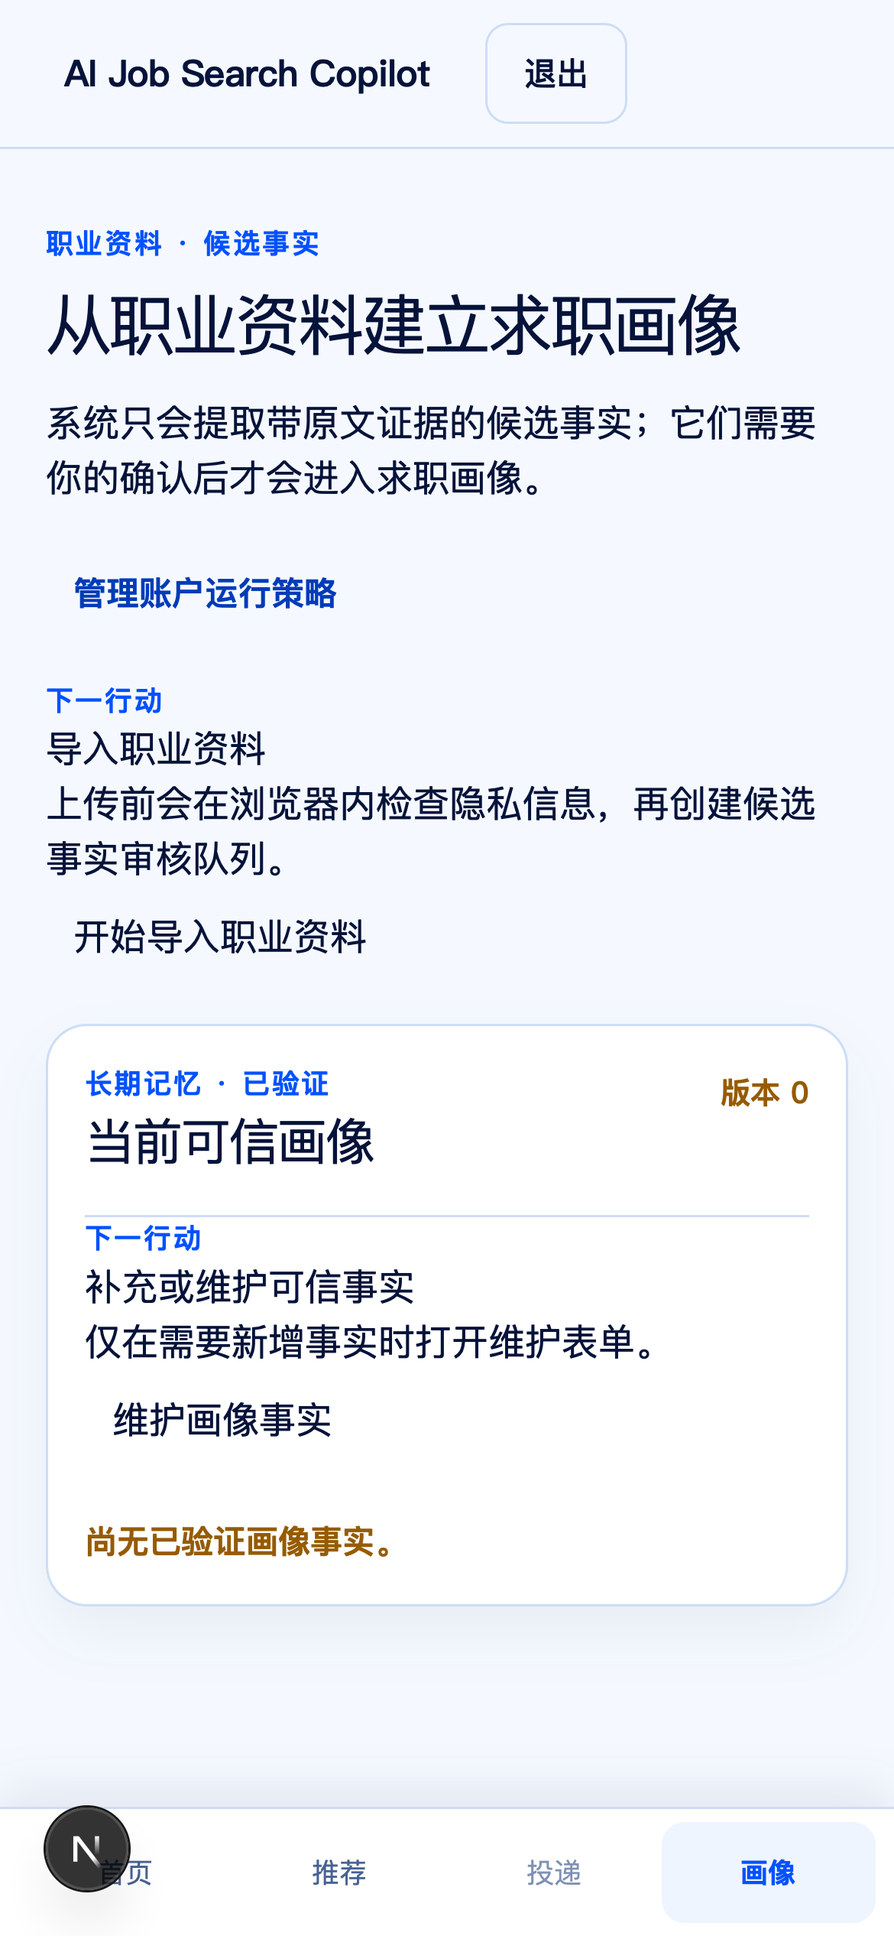
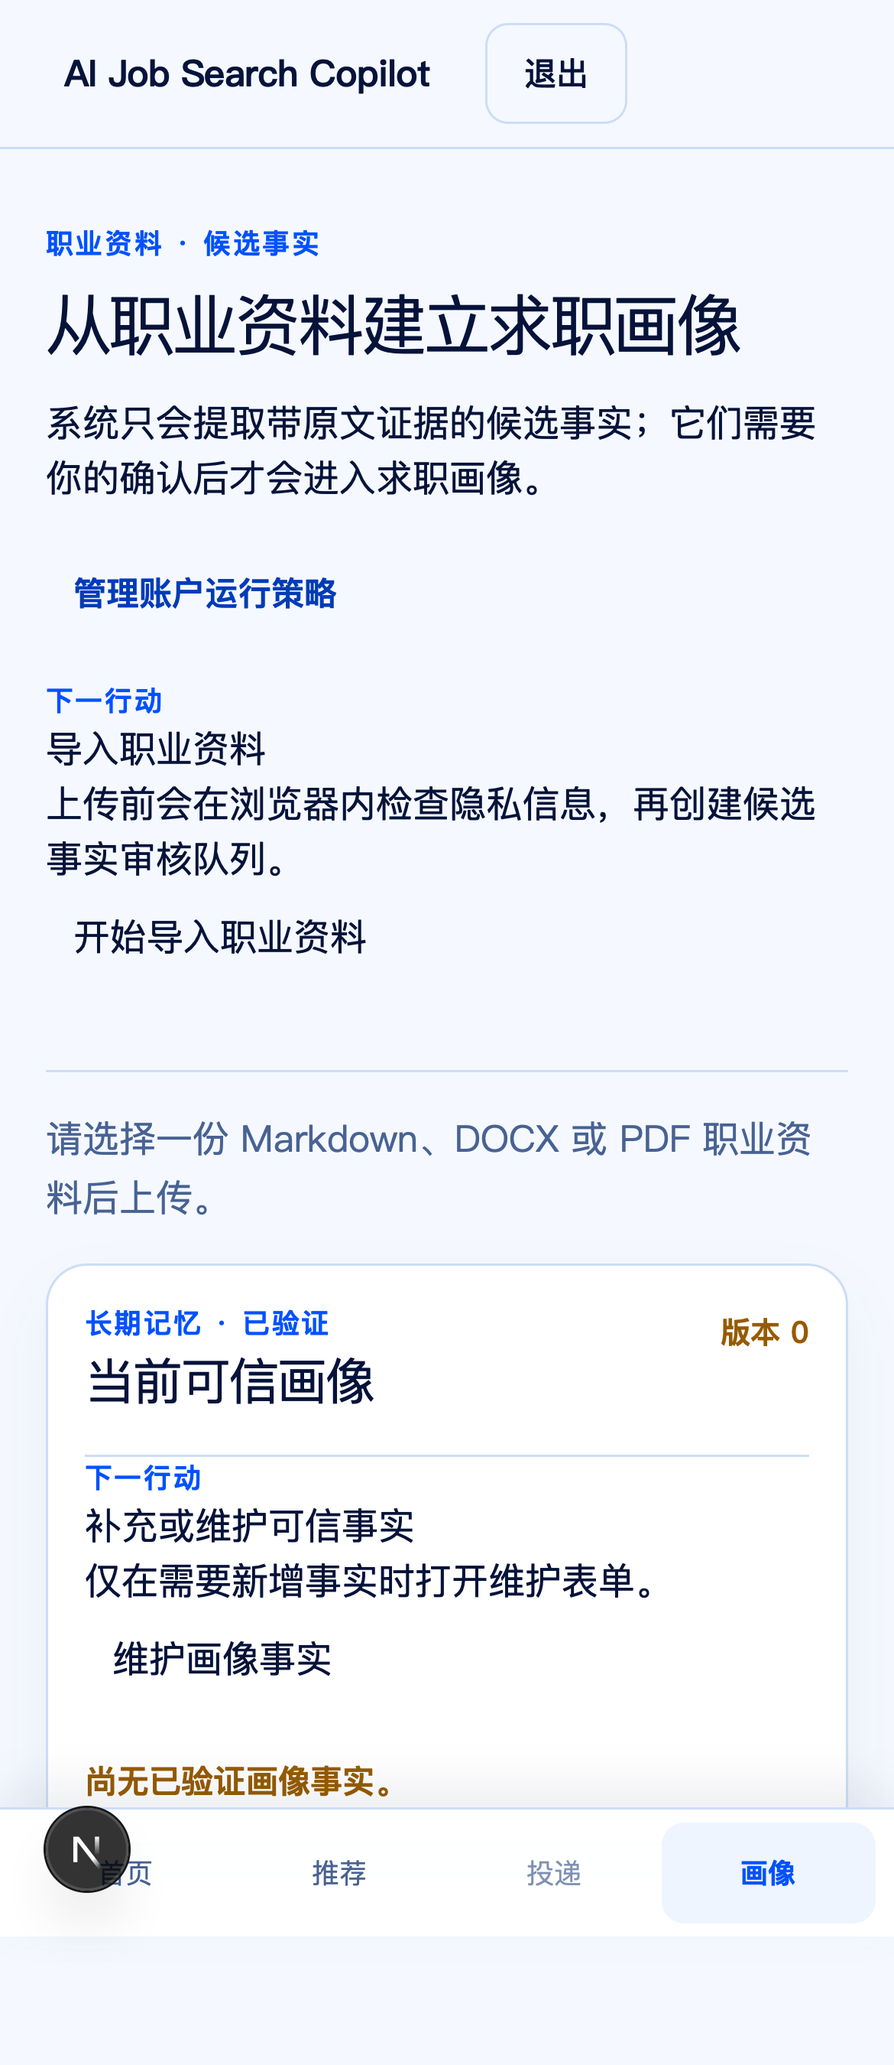
fix(web): preserve mobile policy and import states

diff --git a/apps/web/app/(workbench)/recommendations/page.tsx b/apps/web/app/(workbench)/recommendations/page.tsx
@@ -48,7 +48,7 @@ export default async function RecommendationsPage({ searchParams = Promise.resol
         {resultError ? <p role="alert">{resultError}</p> : result ? <RecommendationResultSummary result={result} /> : null}
         {sideReadError ? <p role="alert">{sideReadError}</p> : null}
         {runStatus ? <><h2>{runStatus}</h2><Link className="workbench-touch-target" href={`/home?runId=${runId}`}>查看本次推荐</Link></> : null}
-        {!list && !result && !resultError && !runStatus ? <><h2>暂无可处理的推荐</h2><p>完成岗位发现和资格筛选后，这里会显示高度匹配、值得尝试或谨慎考虑的岗位。</p><section aria-label="推荐下一行动" className="job-import-panel job-import-next-action"><h2>下一步：先建立求职目标</h2><p>建立一个主求职目标，再从首页启动岗位发现；完成资格筛选后，推荐会在这里按证据呈现。</p><Link className="workbench-touch-target" href="/profile/targets">建立求职目标</Link></section></> : list ? <>
+        {!list && !result && !resultError && !runStatus ? <><h2>暂无可处理的推荐</h2><p>完成岗位发现和资格筛选后，这里会显示高度匹配、值得尝试或谨慎考虑的岗位。</p><section aria-label="推荐下一行动" className="job-import-panel job-import-next-action">{targetId ? <><h2>下一步：从首页启动或查看今日推荐</h2><p>你已经建立主求职目标。请从首页查看推荐准备、阻塞项或启动今天的推荐；结果发布后会在这里按证据呈现。</p><Link className="workbench-touch-target" href="/home#recommendation-run">查看推荐准备</Link></> : <><h2>下一步：先建立求职目标</h2><p>建立一个主求职目标，再从首页启动岗位发现；完成资格筛选后，推荐会在这里按证据呈现。</p><Link className="workbench-touch-target" href="/profile/targets">建立求职目标</Link></>}</section></> : list ? <>
           <p aria-label="推荐清单版本">清单版本 {list.sequence} · {list.localDate}</p>
           <ol aria-label="推荐岗位" className="recommendation-list" id="recommendation-list">
             {list.items.map((item) => {

diff --git a/apps/web/components/workbench/profile-import-view.test.tsx b/apps/web/components/workbench/profile-import-view.test.tsx
@@ -172,6 +172,22 @@ it("默认先展示导入下一行动，明确操作后才展开上传区", asyn
   expect(uploadSection).not.toHaveClass("profile-maintenance-collapsed");
 });
 
+it("收起导入区后仍把当前和最近导入任务状态保留在可见 live 区域", async () => {
+  vi.spyOn(globalThis, "fetch").mockResolvedValue(Response.json(completedDetail));
+  const user = userEvent.setup();
+  render(<ProfileImportView initialImports={[completedImport]} />);
+
+  expect(await screen.findByRole("status")).toHaveTextContent("解析完成");
+  expect(screen.getByRole("status")).toBeVisible();
+  expect(screen.getByRole("heading", { name: "最近导入" })).toBeVisible();
+  await user.click(screen.getByRole("button", { name: "开始导入职业资料" }));
+  await user.click(screen.getByRole("button", { name: "收起导入区" }));
+  expect(screen.getByRole("status")).toBeVisible();
+  expect(screen.getByRole("status")).toHaveTextContent("解析完成");
+  expect(screen.getByRole("button", { name: /completed\.md/ })).toBeVisible();
+  expect(screen.queryByRole("button", { name: "取消导入" })).not.toBeInTheDocument();
+});
+
 it("detects private information before upload and submits only the sanitized processing copy", async () => {
   let submitted: FormData | undefined;
   mocks.createCareerImportAction.mockImplementation(async (_previous, formData: FormData) => {

diff --git a/apps/web/app/(workbench)/recommendations/page.test.tsx b/apps/web/app/(workbench)/recommendations/page.test.tsx
@@ -54,6 +54,17 @@ describe("RecommendationsPage", () => {
     expect(screen.queryByText(/%/)).not.toBeInTheDocument();
   });
 
+  it("有活动主目标但尚无推荐时引导查看或启动推荐，而非重新建立目标", async () => {
+    mocks.getJobTargets.mockResolvedValue({ targets: [{ targetId: targetA, state: "active", priority: "primary" }] });
+
+    render(await RecommendationsPage());
+
+    const nextAction = screen.getByRole("region", { name: "推荐下一行动" });
+    expect(nextAction).toHaveTextContent("从首页启动或查看今日推荐");
+    expect(within(nextAction).getByRole("link", { name: "查看推荐准备" })).toHaveAttribute("href", "/home#recommendation-run");
+    expect(within(nextAction).queryByRole("link", { name: "建立求职目标" })).not.toBeInTheDocument();
+  });
+
   it("将每个真实岗位作为机会对象，并把岗位与画像证据放入可展开对照", async () => {
     mocks.getLatestPublishedRecommendationRun.mockResolvedValue(published(targetB, listA));
     mocks.getRecommendationList.mockResolvedValue(list(listA, targetB, "结构化岗位"));

diff --git a/apps/web/app/globals.css b/apps/web/app/globals.css
@@ -685,29 +685,8 @@ body {
 
 @media (max-width: 640px) {
   .run-policy-table-wrap table {
-    min-width: 100% !important;
-    table-layout: fixed;
-  }
-
-  .run-policy-table-wrap th:nth-child(2),
-  .run-policy-table-wrap td:nth-child(2),
-  .run-policy-table-wrap th:nth-child(3),
-  .run-policy-table-wrap td:nth-child(3),
-  .run-policy-table-wrap th:nth-child(4),
-  .run-policy-table-wrap td:nth-child(4) {
-    display: none;
-  }
-
-  .run-policy-table-wrap th:nth-child(5),
-  .run-policy-table-wrap td:nth-child(5) {
-    display: table-cell !important;
-    width: 4.5rem;
-  }
-
-  .run-policy-table-wrap th:first-child,
-  .run-policy-table-wrap td:first-child {
-    width: auto;
-    overflow-wrap: anywhere;
+    /* Keep the five-layer comparison intact; the wrapper supplies local horizontal scroll. */
+    min-width: 42rem;
   }
 
   .marketing-header-inner {

diff --git a/apps/web/e2e/markdown-career-import.spec.ts b/apps/web/e2e/markdown-career-import.spec.ts
@@ -148,6 +148,11 @@ test("登录用户可导入、持久化并安全复用 Markdown 职业资料", a
   await expect(page.getByText("待确认", { exact: true })).toBeVisible();
   await expect(page.getByRole("heading", { name: "最近导入" })).toBeVisible();
   await expect(page.getByRole("button", { name: /career\.md/ })).toBeVisible();
+  await page.getByRole("button", { name: "收起导入区" }).click();
+  await expect(page.getByRole("status")).toHaveText("解析完成");
+  await expect(page.getByRole("heading", { name: "最近导入" })).toBeVisible();
+  await expect(page.getByRole("button", { name: /career\.md/ })).toBeVisible();
+  await expect(page.getByRole("button", { name: "取消导入" })).toHaveCount(0);
   expect(await importStatusHistory(page)).toEqual(expect.arrayContaining([
     expect.stringMatching(/等待解析|解析中/),
   ]));

diff --git a/apps/web/components/workbench/profile-import-view.tsx b/apps/web/components/workbench/profile-import-view.tsx
@@ -549,8 +549,11 @@ export function ProfileImportView({ initialImports, initialProfile = { profileId
           <button className="profile-upload-button workbench-touch-target" disabled={isPending || !canSubmit} type="submit">
             上传并解析
           </button>
-          <button className="workbench-touch-target" onClick={() => setIsImporting(false)} type="button">取消导入</button>
+          <button className="workbench-touch-target" onClick={() => setIsImporting(false)} type="button">收起导入区</button>
         </form>
+      </section>
+
+      <section aria-label="当前导入任务状态" className="profile-import-status">
         <p aria-live="polite" className="profile-status" role="status">{liveMessage}</p>
       </section>
 

diff --git a/apps/web/app/(workbench)/layout.test.tsx b/apps/web/app/(workbench)/layout.test.tsx
@@ -1,0 +1,13 @@
+import { render, screen } from "@testing-library/react";
+import { expect, it, vi } from "vitest";
+
+vi.mock("@/components/workbench/workbench-header", () => ({ WorkbenchHeader: () => <p>工作台内容</p> }));
+
+import WorkbenchLayout from "./layout";
+
+it("以准确的求职工作台名称标识侧栏 landmark", () => {
+  render(<WorkbenchLayout><p>页面内容</p></WorkbenchLayout>);
+
+  expect(screen.getByRole("complementary", { name: "求职工作台" })).toBeVisible();
+  expect(screen.getByRole("complementary")).not.toHaveAccessibleName(/职业透镜/u);
+});

diff --git a/apps/web/app/(workbench)/layout.tsx b/apps/web/app/(workbench)/layout.tsx
@@ -4,7 +4,7 @@ import type { ReactNode } from "react";
 export default function WorkbenchLayout({ children }: { children: ReactNode }) {
   return (
     <div className="workbench-shell">
-      <aside aria-label="职业透镜工作台侧栏" className="workbench-sidebar">
+      <aside aria-label="求职工作台" className="workbench-sidebar">
         <WorkbenchHeader />
       </aside>
       <div className="workbench-content">{children}</div>

diff --git a/docs/qa/issue-66/README.md b/docs/qa/issue-66/README.md
@@ -2,7 +2,7 @@
 
 ## 当前结论（返工后）
 
-十路由与四个动态态已用显式 `CAREER_LENS_CAPTURE=after` 真实运行时重新采集；未设置该变量的采集路径返回 `null`，不会写入 `before`。Inbox、首次旅程与导入审核由不同 fixture/account 采集；Inbox 与首次旅程哈希在双视口均不同。目标、Watchlist、岗位导入、职业资料和运行策略均按“状态 → 下一行动 → 台账/结果”重组，新增/编辑/导入表单只在用户点击操作后出现；E2E 保留真实请求与状态断言。
+十路由与四个动态态已用显式 `CAREER_LENS_CAPTURE=after` 真实运行时重新采集；未设置该变量的 10 项 acceptance 也已通过，并确认未写入 `screenshots/before/**`。Inbox、首次旅程与导入审核由不同 fixture/account 采集；Inbox 与首次旅程哈希在双视口均不同。目标、Watchlist、岗位导入、职业资料和运行策略均按“状态 → 下一行动 → 台账/结果”重组，新增/编辑/导入表单只在用户点击操作后出现；E2E 保留真实请求与状态断言。
 
 完整指定 E2E 仍非全绿：`one-click-recommendation.spec.ts` 的两个视口期望 `paused`、实际 `cancelled`，且协调者已在干净 `origin/main` 独立复现，故为既有 API/worker 缺陷、**UNVERIFIED（基线/非范围）**，未改 API/worker 或弱化断言。其余本轮受影响 Profile、运行策略、模型、Watchlist、岗位导入、推荐、目标、Inbox 和 acceptance 均有无重叠的串行 GREEN 日志。此前两次运行时清理阶段出现重叠，相关输出已作废且未作为下表证据。
 
@@ -17,12 +17,13 @@
 | 检查 | 当前结果 | 日志 |
 | --- | --- | --- |
 | 受影响 E2E：Profile Markdown / DOCX / PDF | PASS，10 passed | 本轮串行会话记录 |
+| 返工定向 E2E：运行策略 / Markdown 导入 / 推荐 | PASS，8 / 4 / 通过 | 本轮串行会话记录；均为 `--workers=1` |
 | 受影响 E2E：运行策略 / 模型诊断 | PASS，10 passed | `serial-final-b-run-policy-model.log`（原始输出，未跟踪） |
 | 受影响 E2E：目标 / Watchlist / 岗位导入 / 推荐 | PASS，22 passed | 本轮串行会话记录 |
 | 受影响 E2E：Inbox | PASS，2 passed、4 skipped（分 phase 设计） | 本轮串行会话记录 |
-| Web Vitest | PASS，94 files / 655 tests | `rework-web-test-final.log` |
-| typecheck / lint / build | PASS | `web-*-recovery-final.log` |
-| Career Lens acceptance（显式 `after`） | PASS，10 passed | `rework-acceptance-after-final.log` |
+| Web Vitest | PASS，95 files / 661 tests | 本轮串行会话记录 |
+| typecheck / lint / build | PASS | 本轮串行会话记录 |
+| Career Lens acceptance（未设置 capture / 显式 `after`） | PASS，10 / 10 passed；前者未写 before | 本轮串行会话记录 |
 | finesse detector | PASS，P0=0；P1/P2 为既有样式提示 | `finesse-detect-recovery-final.log` |
 | 全量串行 E2E | UNVERIFIED，114 passed / 8 skipped / 2 failed | `task-8-all-specified-e2e-final.log` |
 | 全局停止独立复现（清除 `CAREER_LENS_CAPTURE`） | UNVERIFIED，8 passed / 2 failed / 2 skipped | `task-8-one-click-recommendation-rerun.log` |
@@ -33,7 +34,7 @@
 
 ## 视觉与可访问性
 
-已逐张查看 28 张 `screenshots/after/*.png`，Desktop/Mobile 均通过，关键缺项均为 0。评分格式为布局/主视觉/字体色彩/内容组件/移动=总分；每项的唯一扣分是相应长台账或说明的全页信息密度。
+已逐张查看 28 张本轮 `screenshots/after/*.png`，Desktop/Mobile 均通过，关键缺项均为 0。评分格式为布局/主视觉/字体色彩/内容组件/移动=总分；每项的唯一扣分是相应长台账或说明的全页信息密度。Mobile Policy 截图只展示横滚容器的左起列；定向 Mobile Safari E2E 已验证五个表头均在可访问树、表格容器确有横滚且根页面不溢出，因此不以“裁切隐藏列”冒充通过。
 
 | 页面或动态态 | 五维评分 | 扣分 |
 | --- | --- | --- |
@@ -45,16 +46,29 @@
 | 求职目标 `/profile/targets` | 30/24/19/15/9 = 97 | 约束字段长度 |
 | 公司来源 `/profile/targets/:id/watchlist` | 30/24/19/15/9 = 97 | 来源 URL/字段长度 |
 | 岗位导入 `/jobs/import` | 30/24/19/15/9 = 97 | 导入模式说明 |
-| 运行策略 `/profile/run-policy` | 29/24/19/15/9 = 96 | 移动两列策略表较长 |
+| 运行策略 `/profile/run-policy` | 29/24/19/15/9 = 96 | 移动五列通过容器局部横滚阅读，首次视口只显示左起列 |
 | 模型诊断 `/profile/model-connection` | 30/24/19/15/9 = 97 | 诊断说明 |
 | Inbox 动态态 | 29/24/19/15/9 = 96 | 决策队列长度 |
 | 首次推荐旅程动态态 | 29/24/19/15/9 = 96 | 步骤状态密度 |
 | 导入审核动态态 | 29/24/19/15/9 = 96 | 原文证据密度 |
 | 推荐校准动态态 | 29/24/19/15/9 = 96 | 规则/证据密度 |
 
-键盘焦点、44px 触控、对比度、`prefers-reduced-motion`、无根横向溢出及空/加载/错误/恢复均由 acceptance 和受影响 E2E 覆盖。移动运行策略显示“设置/最终生效”两列，桌面保留完整五列。采用浅蓝工作台、深色运行区、可见状态卡和移动底栏，舍弃“职业透镜”作为用户产品名；未新增依赖或资产，现有代码与静态资产许可不变。finesse 的 `draft.careersUrl.trim(` 为 TS 表达式路径误报，另有 P2 stamp 提示，无真实死链。
+键盘焦点、44px 触控、对比度、`prefers-reduced-motion`、无根横向溢出及空/加载/错误/恢复均由 acceptance 和受影响 E2E 覆盖。移动运行策略保留完整五列：设置、系统默认、硬上限、你的设置、最终生效；桌面同样保留五列。采用浅蓝工作台、深色运行区、可见状态卡和移动底栏，舍弃“职业透镜”作为用户产品名；未新增依赖或资产，现有代码与静态资产许可不变。finesse 的 `draft.careersUrl.trim(` 为 TS 表达式路径误报，另有 P2 stamp 提示，无真实死链。
 
-静态旧图可与 `screenshots/before/` 的 18 个受版本控制文件逐项对照；旧动态态没有归档 before，明确标为缺证，未伪造。设计采用浅蓝工作台、深色运行区、可见状态卡和移动底栏；舍弃“职业透镜”作为用户产品名。未添加依赖或资产，现有代码与静态资产许可不变。
+静态旧图可与 `screenshots/before/` 的 18 个受版本控制文件逐项对照；**AC-012 动态态旧版 before 为 UNVERIFIED**：旧动态态没有归档 before，协调者将从 `origin/main` 的真实运行时另行补证，本分支没有生成或伪造任何 before。设计采用浅蓝工作台、深色运行区、可见状态卡和移动底栏；舍弃“职业透镜”作为用户产品名。未添加依赖或资产，现有代码与静态资产许可不变。
+
+### 逐页可访问性、对比度与状态映射
+
+| 页面或动态态 | 对比度检查 | 空、加载、错误与恢复检查 |
+| --- | --- | --- |
+| 营销、登录 | 深蓝正文/白或浅蓝背景、蓝色 CTA/白字均由 `landing.spec.ts` 与截图复核 | 无异步数据；登录安全 returnTo 和本地体验登录 action 保持可恢复 |
+| 首页、首次旅程、Inbox | 深色运行区白字与浅卡深蓝字；状态卡不依赖仅颜色 | 空账户、准备中、运行/阻塞、Inbox 忽略后的 API 刷新恢复由 `workbench-inbox.spec.ts` 与 acceptance fixture 覆盖 |
+| 推荐、推荐校准 | 机会标题、证据区与操作蓝色均有文字标签 | 无目标空态、已有目标零推荐下一步、运行状态、校准冲突/重算/刷新由 `recommendations.spec.ts` 覆盖 |
+| 职业资料、导入审核 | 深蓝正文、琥珀待确认标签均有文本状态 | 导入等待/解析完成/失败、刷新、候选事实决定与收起导入区后 live 状态由 Markdown/DOCX/PDF E2E 覆盖 |
+| 求职目标、Watchlist | 卡片和来源状态使用文本+边框，不以颜色单独表达 | 目标空态、容量/冲突，来源未检查/失败/停用/排序与刷新由对应 E2E 覆盖 |
+| 岗位导入 | 信息带和规范化字段深蓝/浅蓝对比，状态有文字 | 三种导入、轮询、原文、失败与恢复由 `job-imports.spec.ts` 覆盖 |
+| 运行策略 | 五列表头/数值在白卡深蓝文字中可读 | 保存、硬上限字段错误、停止/解除和历史刷新；Mobile 容器横滚/根不溢出由 `account-run-policy.spec.ts` 覆盖 |
+| 模型诊断 | 深色边框/深蓝正文与显式状态文字 | checking、failed、temporary、retryAt、aria-live 与重试由 `model-diagnostics.spec.ts` 覆盖 |
 
 ## Before 证据隔离
 

diff --git a/docs/superpowers/plans/2026-09-28-career-lens-ui-migration.md b/docs/superpowers/plans/2026-09-28-career-lens-ui-migration.md
@@ -45,7 +45,7 @@ Task 1–8 的实现、状态覆盖与视觉 AC 已完成。全量指定 E2E 仅
 - Produces: 可重复访问十路由与四任务态的验收入口、真实旧产品桌面/手机截图；不使用静态原型代替。
 
 - [x] **Step 1: 建立只采证的浏览器 spec**：复用现有 fixture/API 初始化路径访问十路由与四任务态，先只断言路由可读和截图成功，不断言尚未实现的新视觉。
-- [x] **Step 2: 串行采集 before**：确认无测试进程后运行 `pnpm --filter web test:e2e -- career-lens-acceptance.spec.ts --workers=1`，把输出固定到 `docs/qa/issue-66/screenshots/before/`；若某状态没有现成 fixture，只记录 UNVERIFIED，不伪造。
+- [ ] **Step 2: 串行采集 before**：静态十路由旧图已来自真实 runtime；**AC-012 动态态旧版 before 为 UNVERIFIED**，待协调者从 `origin/main` 真实运行时补证。本分支不在实现后重建、不伪造动态 before。
 - [x] **Step 3: 审核截图清单**：逐张确认来自真实 Web runtime、画幅正确、没有横向裁切，并在后续各任务中逐步为对应页面加入会先失败的新视觉/可访问行为断言。
 
 ### Task 1: 冻结设计基线与共用视觉骨架
@@ -226,12 +226,12 @@ Task 1–8 的实现、状态覆盖与视觉 AC 已完成。全量指定 E2E 仅
 - Produces: 十路由+四任务态的桌面/移动新旧对照、可访问性/响应式证据、逐页评分和最终命令日志。
 
 - [x] **Step 1: 完成验收 spec**：用真实浏览器和现有 fixture 访问十路由与四任务态，断言 landmark、主对象、真实状态、无横向溢出、44px 命中、键盘焦点、reduced-motion、空/错误恢复；复核各切片已经真实经历 RED，未覆盖项先补失败断言再修复。
-- [x] **Step 2: 复核 before 证据**：确认 Task 0 的截图来自 `fa67dd6` 真实 runtime 且清单完整；不得在实现后重建或把静态原型冒充旧产品截图。
+- [ ] **Step 2: 复核 before 证据**：静态十路由截图来自 `fa67dd6` 真实 runtime；**AC-012 动态态旧版 before 仍 UNVERIFIED**，不得在实现后重建或把静态原型冒充旧产品截图。
 - [x] **Step 3: 验证 GREEN 与保存 after**：在当前 HEAD 运行 `pnpm --filter web test:e2e -- career-lens-acceptance.spec.ts --workers=1`；逐页查看全部 after 截图并与权威图/原型对照，记录布局30/主视觉25/字体色彩20/内容组件15/移动10、具体扣分和关键缺项。
 - [x] **Step 4: 视觉修正闭环**：任何页面低于 95 或关键缺项>0，先补能捕获行为回归的测试，再最小修复并重跑受影响页面；不以平均分放行。（职业资料/运行策略已改为明确操作后展开；Mobile Policy 已经 RED→GREEN 验证两列均可见。）
 - [x] **Step 5: 全量串行验证**：确认无遗留测试进程后，依次运行 `pnpm --filter web test`、`pnpm --filter web typecheck`、`pnpm --filter web lint`、`pnpm --filter web build`，再依次运行 Issue 指定的全部现有 E2E specs；记录退出码与完整日志位置；全局停止状态以 UNVERIFIED 记录。
 - [x] **Step 6: UI 静态检测**：运行 `node /Users/shen/.codex/skills/vibe-ui-orchestrator/scripts/finesse-detect.mjs --json <changed-web-files>` 作为补充，`notCovered` 必须转入人工浏览器检查，不用它替代截图验收。
-- [x] **Step 7: 完成 QA 报告**：`docs/qa/issue-66/README.md` 写入参考采用/舍弃、依赖与许可、每页评分、截图清单、键盘/焦点/触控/对比度/reduced-motion/溢出/状态证据、既有 API 失败和未决风险。（14 项均 >=95，关键缺项 0；仅 one-click API/worker 基线缺陷保持 UNVERIFIED。）
+- [ ] **Step 7: 完成 QA 报告**：`docs/qa/issue-66/README.md` 已写入参考采用/舍弃、依赖与许可、每页评分、截图清单、键盘/焦点/触控/对比度/reduced-motion/溢出/状态证据、既有 API 失败和未决风险；14 项 after 均 >=95、关键缺项 0，但 **AC-012 动态态旧版 before 和 one-click API/worker 均保持 UNVERIFIED**。
 - [x] **Step 8: Commit**：`git commit -m "test(web): verify the career lens migration"`。
 
 ## Plan Self-Review
